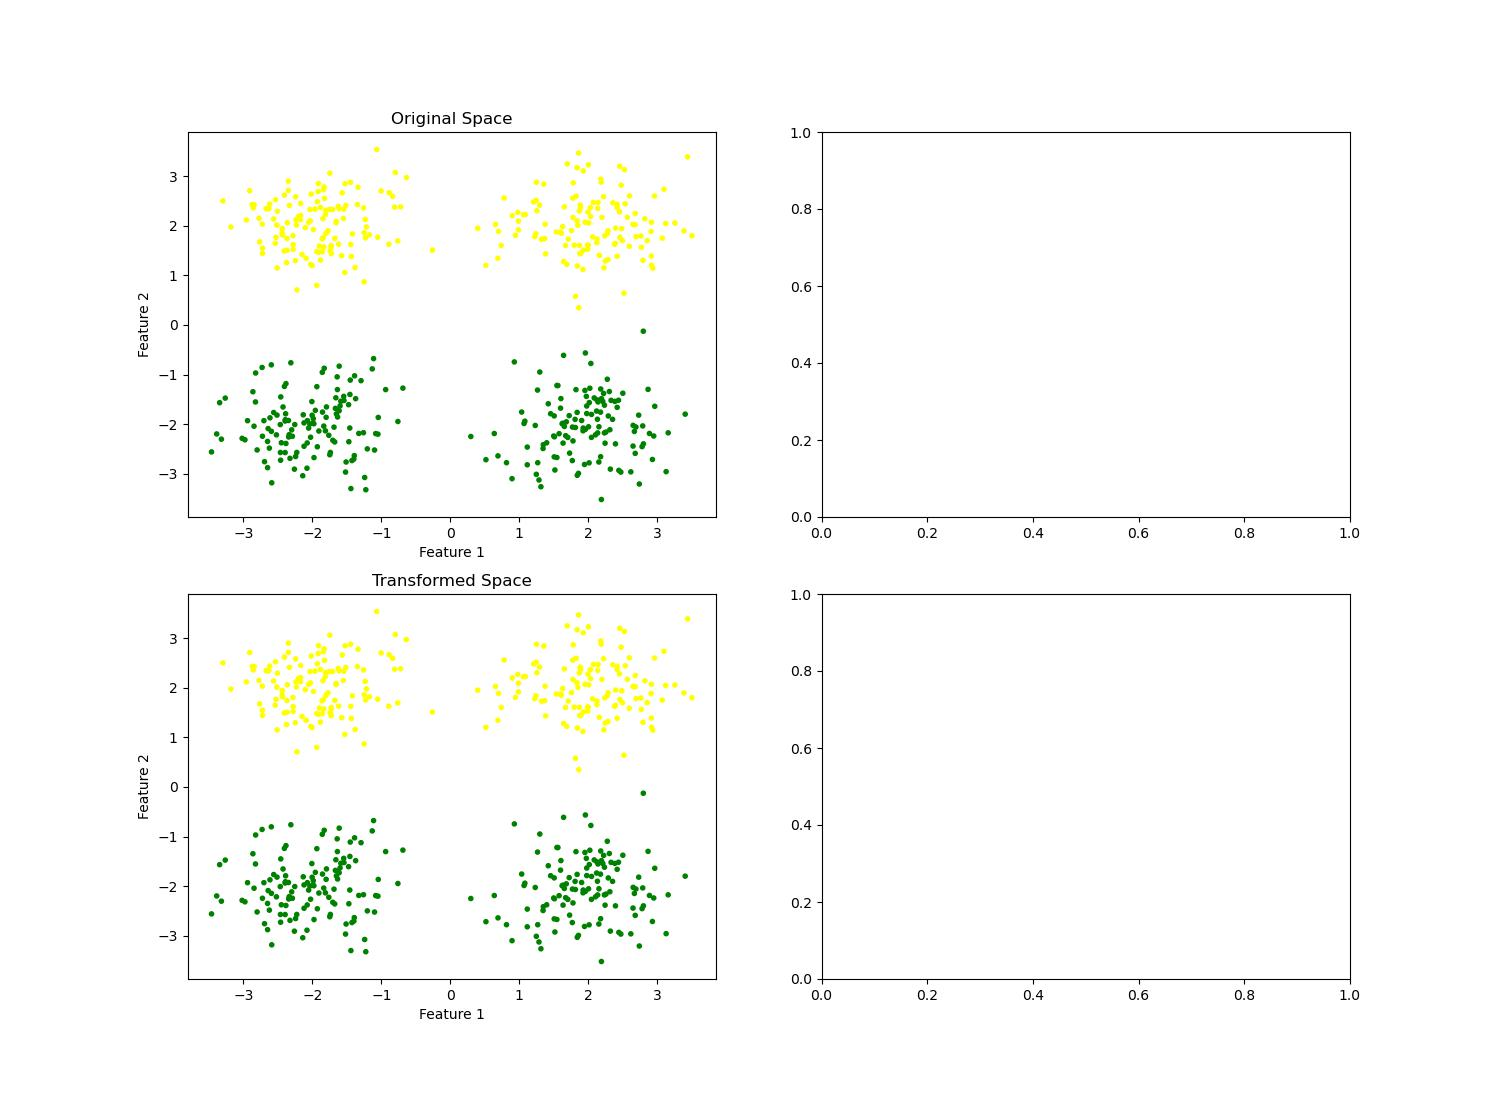
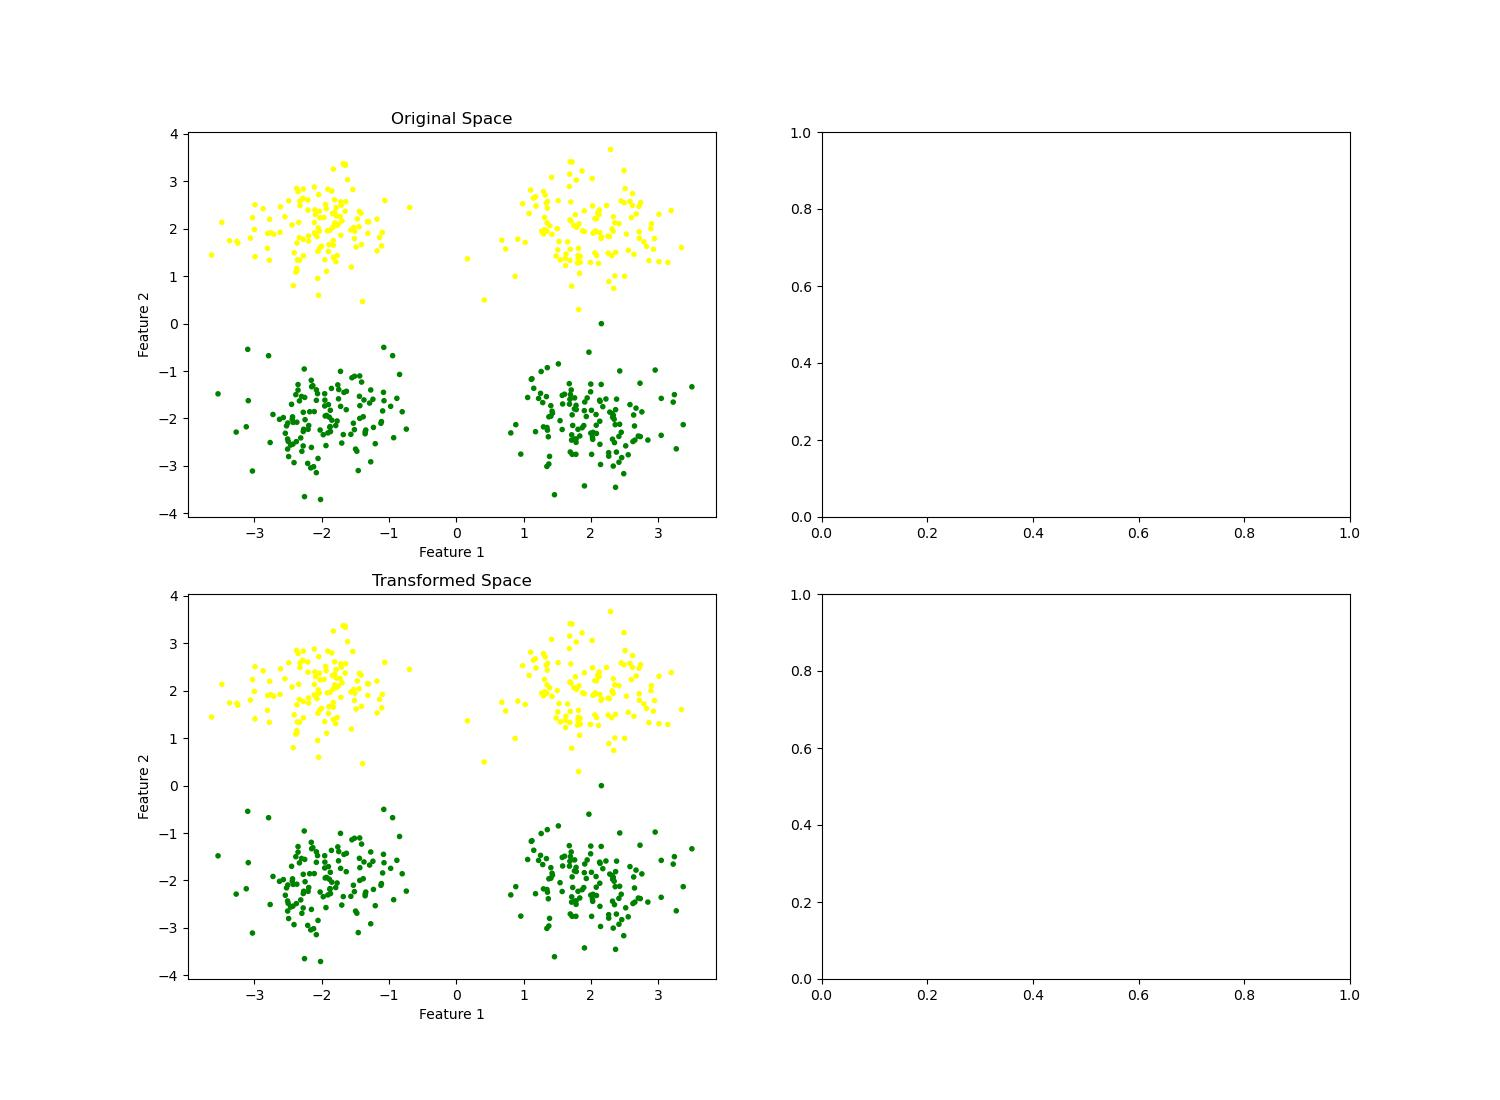
updates

diff --git a/MultiViewClusteringViaOrthogonalization/main_multiview.py b/MultiViewClusteringViaOrthogonalization/main_multiview.py
@@ -171,8 +171,8 @@ def mView_Clustering_via_Orthogonalization(DATA, alternatives, k, datatype):
 
 alternatives = 5 
 
-DATA, k, datatype, imRow, imCol, imDim = generate_data(type= 'image') 							# 'image'
-#DATA, k, datatype  = generate_data(type= '2-2-4') 									# '2-2-4', '4-3-2'
+#DATA, k, datatype, imRow, imCol, imDim = generate_data(type= 'image') 							# 'image'
+DATA, k, datatype  = generate_data(type= '2-2-3') 									# '2-2-3', '4-3-2'
 
 
 mView_Clustering_via_Orthogonalization(DATA, alternatives, k, datatype)
